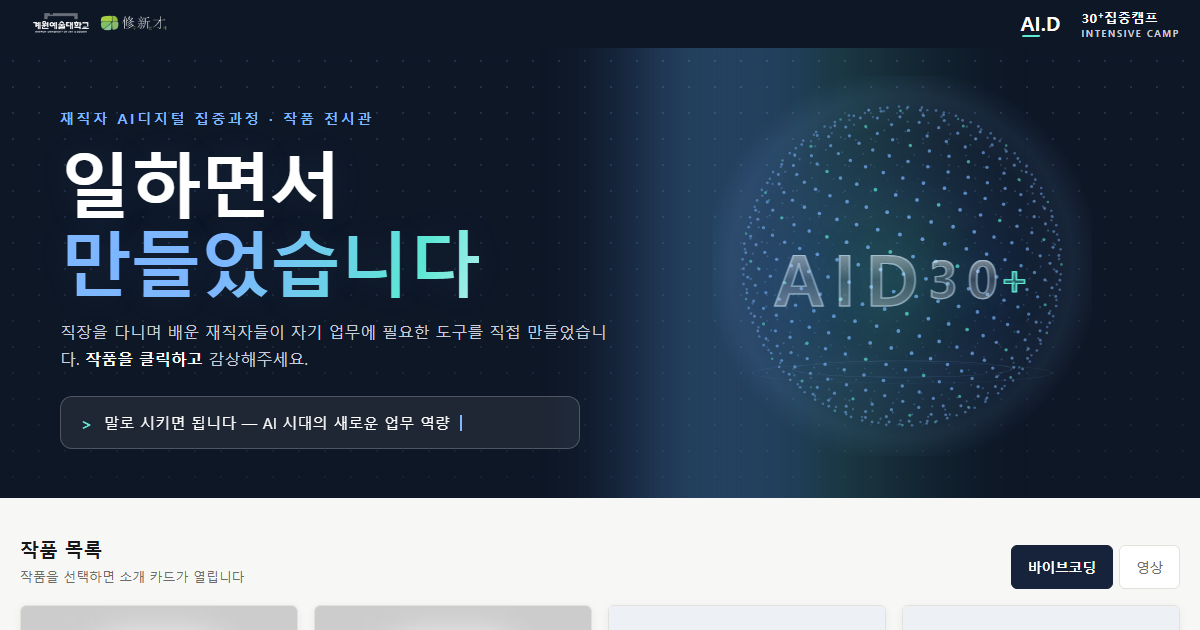
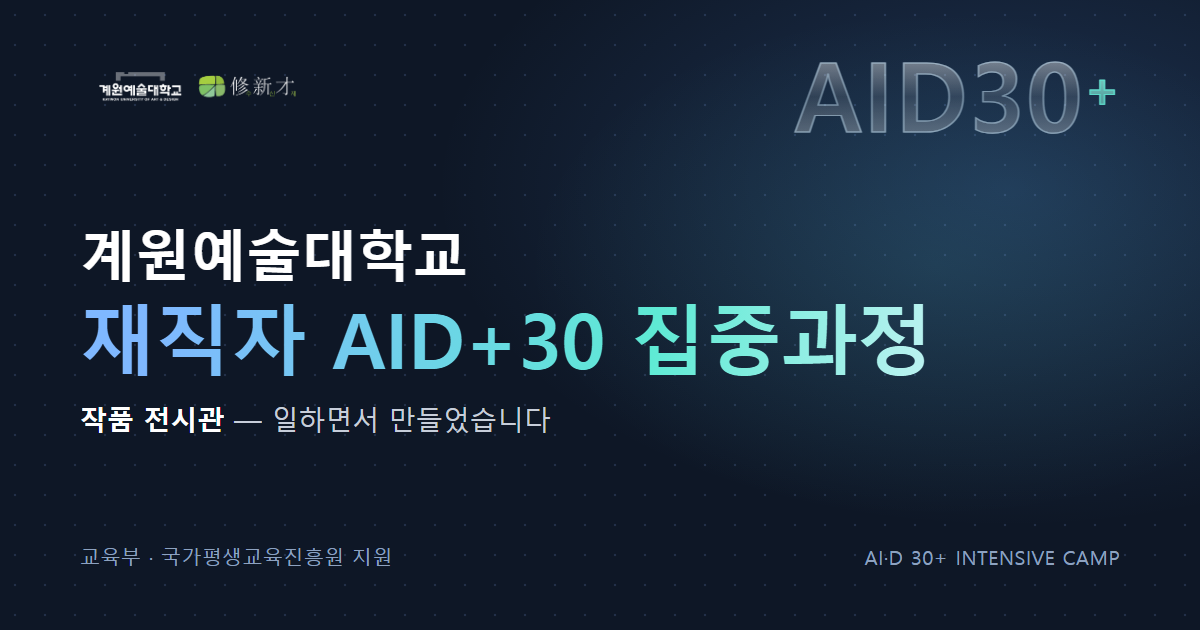
feat: 오픈그래프 전용 카드 — 계원예술대학교·재직자 AID+30 집중과정 부각
- og-card.html: 1200×630 미리보기 카드 원본 (재캡처용으로 보관)
- 학교명(흰색)·과정명(그라데이션 대형) 중심 구성 + 수신재 로고·AID30+ 유리 텍스트
- 하단에 교육부·국가평생교육진흥원 지원 명시
- og:title/description·페이지 title을 과정명 중심으로 갱신

diff --git a/og-card.html b/og-card.html
@@ -1,0 +1,64 @@
+<!DOCTYPE html>
+<html lang="ko">
+<head>
+<meta charset="UTF-8">
+<meta name="robots" content="noindex">
+<title>og-card — 링크 미리보기 카드 (img/og.png 원본, 1200×630 캡처용)</title>
+<style>
+*{margin:0;padding:0;box-sizing:border-box}
+body{
+  width:1200px;height:630px;overflow:hidden;position:relative;
+  font-family:"Pretendard","Apple SD Gothic Neo","Malgun Gothic",sans-serif;
+  color:#FFFFFF;
+  background:
+    radial-gradient(rgba(140,180,255,.16) 1.2px, transparent 1.6px),
+    radial-gradient(880px 520px at 84% 30%, rgba(90,160,255,.20), transparent 65%),
+    radial-gradient(680px 420px at 78% 42%, rgba(94,234,212,.11), transparent 60%),
+    #0E1726;
+  background-size:30px 30px, auto, auto, auto;
+}
+.wrap{position:absolute;inset:0;padding:60px 80px;display:flex;flex-direction:column;justify-content:space-between}
+.logo{height:56px;width:auto;align-self:flex-start}
+h1{font-weight:800;letter-spacing:-.02em;line-height:1.16}
+h1 .u{display:block;font-size:56px;color:#FFFFFF}
+h1 .p{
+  display:block;font-size:76px;margin-top:6px;
+  background:linear-gradient(100deg,#7FB8FF 8%,#5EEAD4 55%,#EAF6FF 95%);
+  -webkit-background-clip:text;background-clip:text;color:transparent;
+}
+.sub{margin-top:20px;font-size:27px;color:#C7CEDA}
+.sub b{color:#FFFFFF}
+.foot{display:flex;justify-content:space-between;align-items:center;font-size:20px;color:#8DA2C0;letter-spacing:.02em}
+.glass{
+  position:absolute;top:44px;right:78px;
+  font-weight:900;font-size:96px;letter-spacing:.02em;line-height:1;
+  background:linear-gradient(180deg,rgba(255,255,255,.55) 0%,rgba(255,255,255,.10) 55%,rgba(255,255,255,.30) 100%);
+  -webkit-background-clip:text;background-clip:text;color:transparent;
+  -webkit-text-stroke:1px rgba(205,235,255,.45);
+}
+.glass sup{
+  font-size:.52em;vertical-align:.5em;
+  background:linear-gradient(180deg,rgba(140,243,223,.9),rgba(94,234,212,.4));
+  -webkit-background-clip:text;background-clip:text;color:transparent;
+  -webkit-text-stroke:1px rgba(94,234,212,.75);
+}
+</style>
+</head>
+<body>
+<div class="glass">AID30<sup>+</sup></div>
+<div class="wrap">
+  <img class="logo" src="img/logo-kaywon-inv.png" alt="계원예술대학교 평생교육원 수신재">
+  <div>
+    <h1>
+      <span class="u">계원예술대학교</span>
+      <span class="p">재직자 AID+30 집중과정</span>
+    </h1>
+    <p class="sub"><b>작품 전시관</b> — 일하면서 만들었습니다</p>
+  </div>
+  <div class="foot">
+    <span>교육부 · 국가평생교육진흥원 지원</span>
+    <span>AI·D 30+ INTENSIVE CAMP</span>
+  </div>
+</div>
+</body>
+</html>

diff --git a/index.html b/index.html
@@ -3,15 +3,15 @@
 <head>
 <meta charset="UTF-8">
 <meta name="viewport" content="width=device-width, initial-scale=1.0">
-<title>AID+30 작품 전시관 — 계원예술대학교</title>
-<meta name="description" content="계원예술대학교 AID+30 수강생이 수업에서 직접 만든 도구를 전시합니다.">
+<title>계원예술대학교 재직자 AID+30 집중과정 — 작품 전시관</title>
+<meta name="description" content="계원예술대학교 재직자 AID+30 집중과정 수강생이 직접 만든 도구와 영상을 전시합니다.">
 <!-- 파비콘 — 계원 수신재 초록 마크 -->
 <link rel="icon" type="image/png" href="img/favicon.png">
 <!-- 오픈그래프 — 링크 미리보기. og.png는 히어로 1200×630 캡처 (브랜드 색 확정 시 재캡처) -->
 <meta property="og:type" content="website">
 <meta property="og:url" content="https://wowtinasem.github.io/kw_aid30_z/">
-<meta property="og:title" content="AID+30 작품 전시관 — 계원예술대학교">
-<meta property="og:description" content="AID+30 수강생이 수업에서 직접 만든 도구를 전시합니다.">
+<meta property="og:title" content="계원예술대학교 재직자 AID+30 집중과정 — 작품 전시관">
+<meta property="og:description" content="계원예술대학교 재직자 AID+30 집중과정 수강생이 직접 만든 도구와 영상을 전시합니다.">
 <meta property="og:image" content="https://wowtinasem.github.io/kw_aid30_z/img/og.png">
 <meta name="twitter:card" content="summary_large_image">
 <style>
